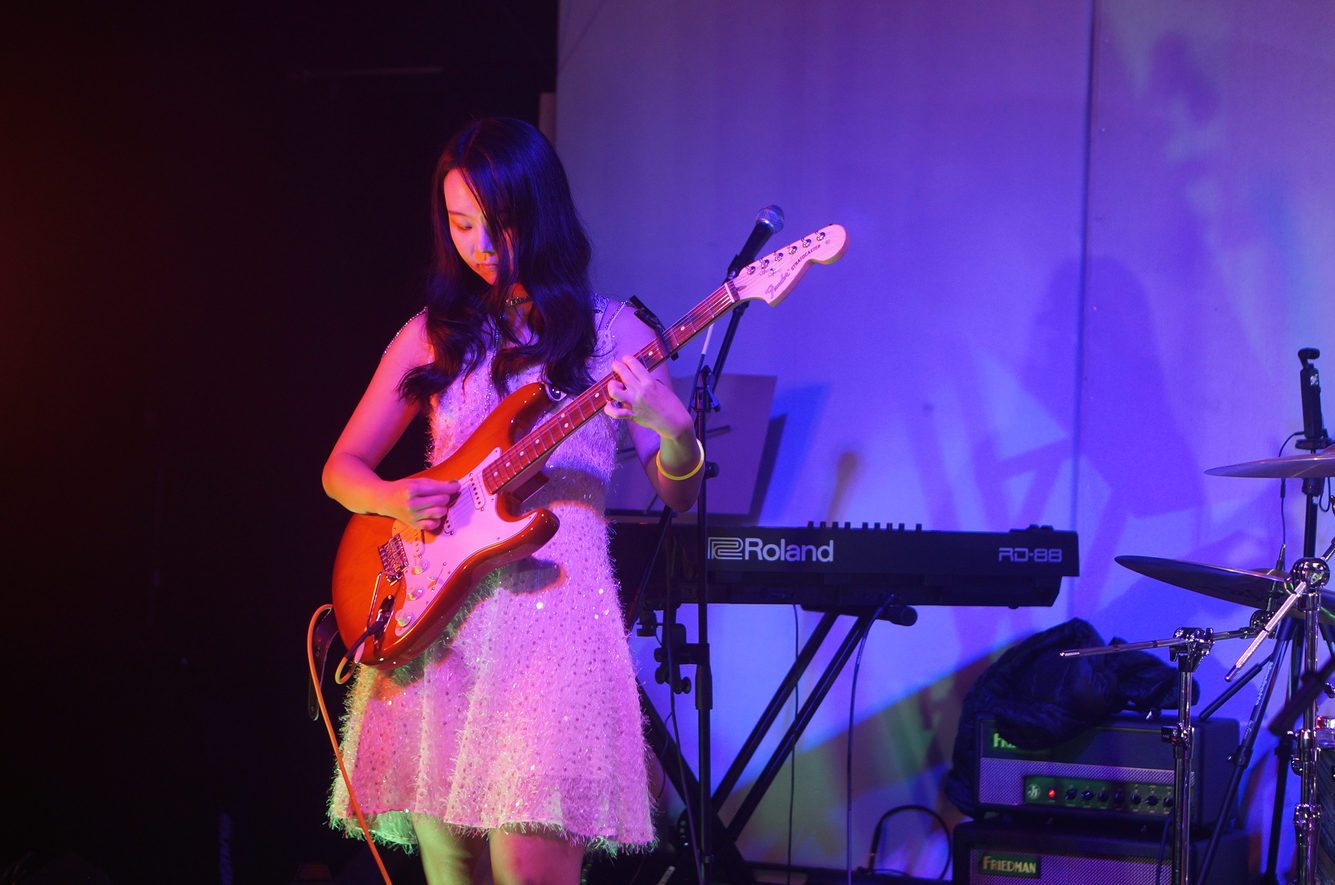
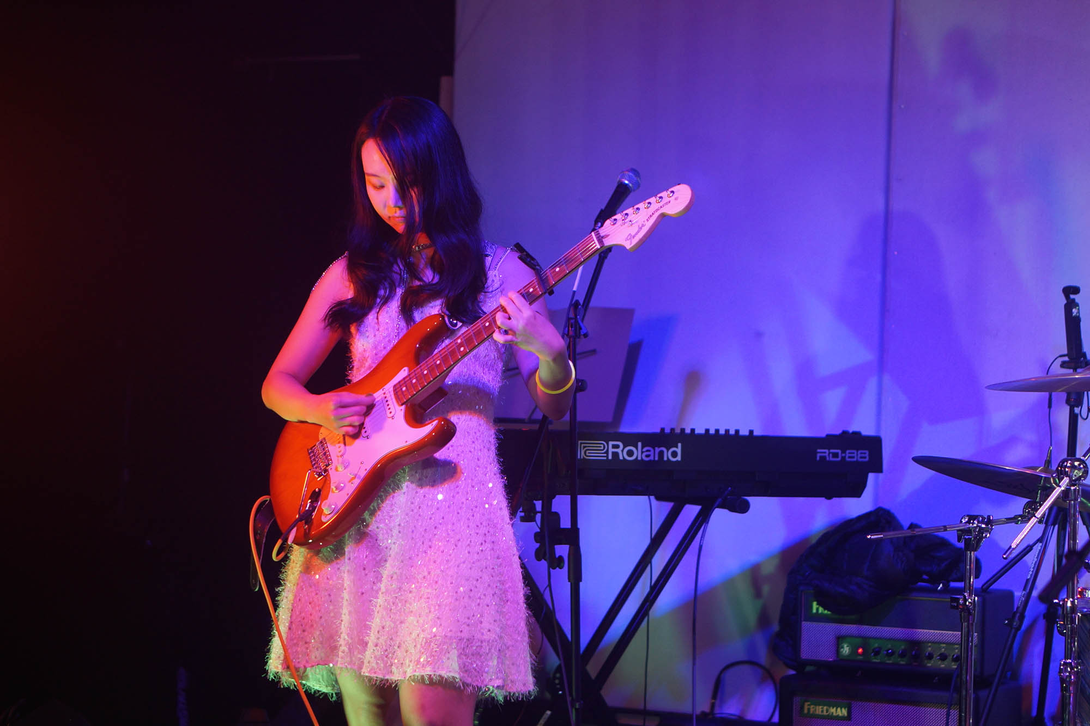
resize photos

diff --git a/README.md b/README.md
@@ -13,4 +13,3 @@ The site uses minimal-mistakes theme and is powered by Jekyll.
 
 
 TODO List
- - resize photos
